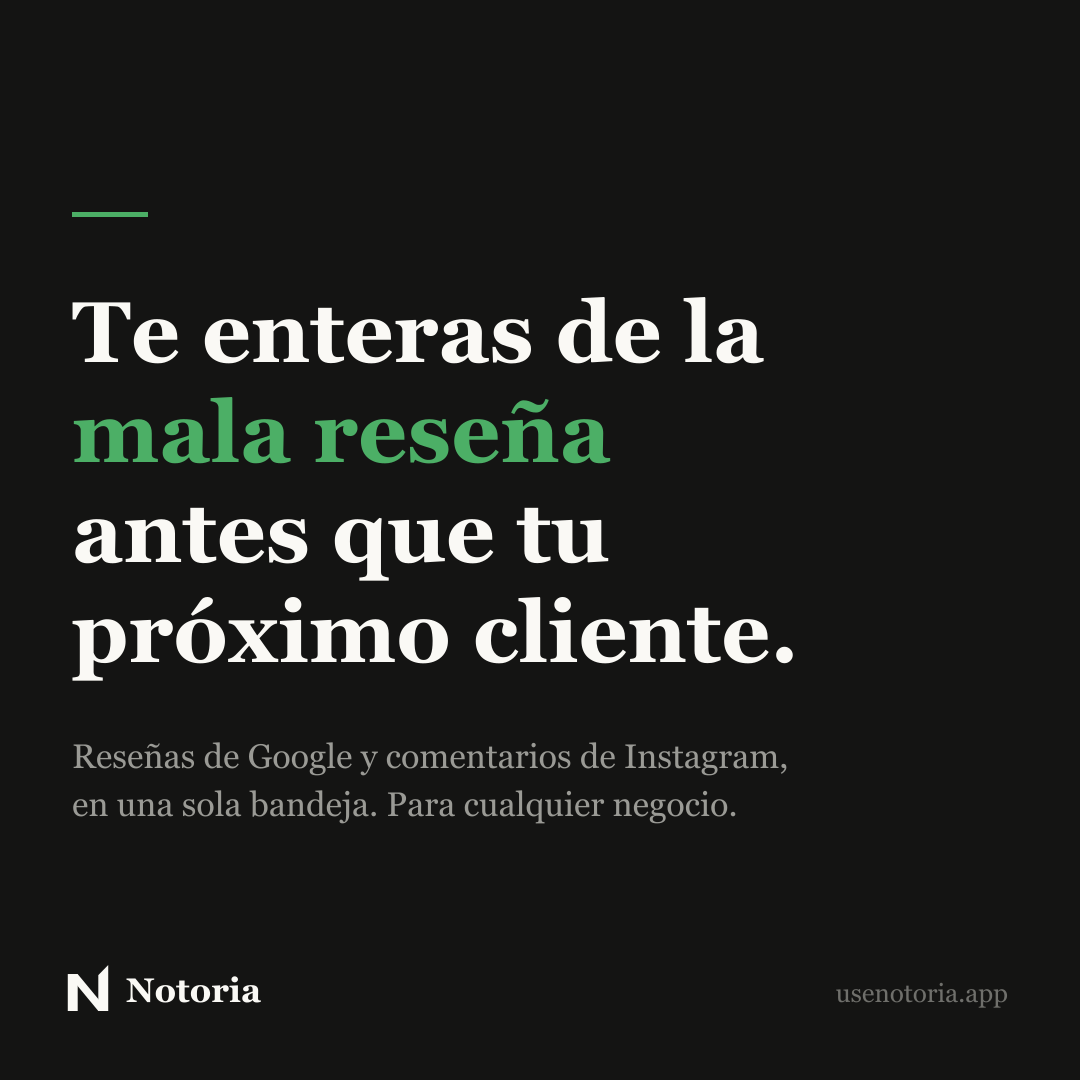
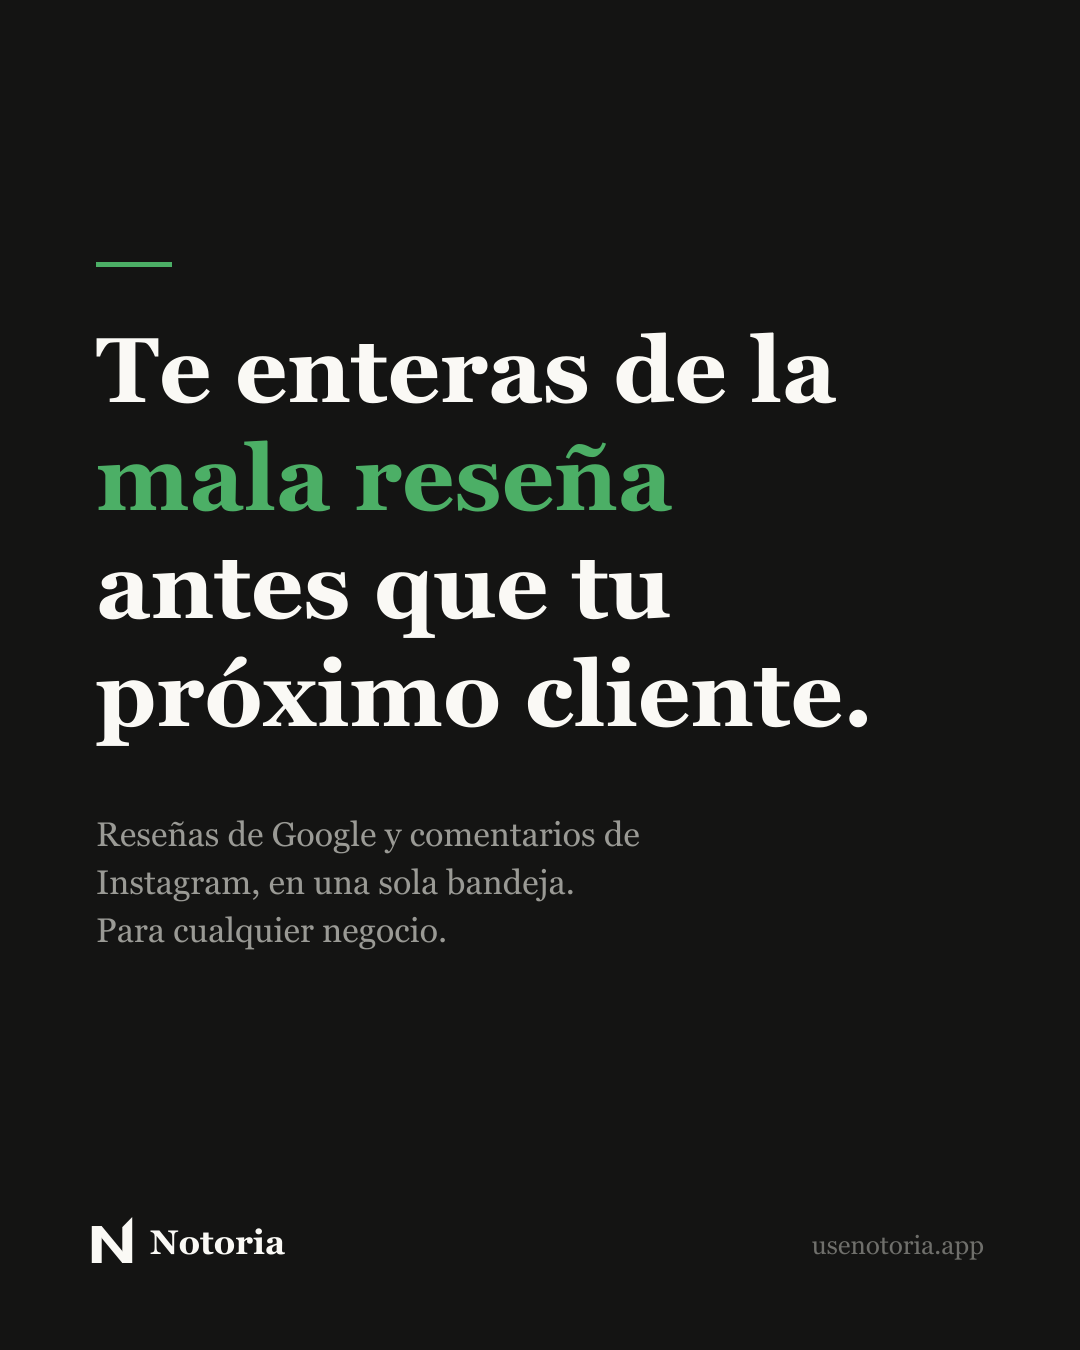
Pasar las piezas de redes a 4:5 vertical, que Instagram no recorta
Subida la primera al perfil se vio el problema: la cuadricula ya no muestra
las miniaturas cuadradas, las encaja en una celda vertical y descarta los
lados. El titular empieza en el margen izquierdo, asi que se leia "e enteras
de la" en vez de "Te enteras de la".

Mover el texto hacia dentro habria tapado el sintoma dejando el diseño
descentrado. La causa es el formato: a 1080x1350 la celda coincide con la
pieza y no se pierde nada. De paso ocupa mas alto en el feed, que es por lo
que la propia plataforma prefiere ese formato.

El margen lateral queda mas adentro de lo que pediria el diseño, como
reserva por si vuelven a cambiar el recorte. Las tres verificadas a 0.800
exacto.

diff --git a/marca/generar-social.js b/marca/generar-social.js
@@ -1,18 +1,28 @@
-// Piezas para redes sociales de Notoria, 1080x1080 PNG (formato cuadrado de
-// Instagram). Se usan para publicar y como material de la publicación que sale
-// en el screencast del App Review de Meta.
+// Piezas para redes sociales de Notoria, 1080x1350 PNG. Se usan para publicar y
+// como material de la publicación que sale en el screencast del App Review.
 //
 //   node marca/generar-social.js
 //
-// Se compone en SVG y se rasteriza con `sharp`. La nota de `generar-logos.py`
-// decía que no había rasterizador SVG en la máquina y por eso aquel se dibujó
-// con Pillow a 4x; `sharp` ya está instalado con el frontend, así que aquí sí se
-// puede usar SVG y tener tipografía de verdad en vez de polígonos.
+// ⚠ EL FORMATO ES 4:5 VERTICAL, NO CUADRADO, y no es una preferencia estética.
+// La primera versión salió a 1080x1080 y en la cuadrícula del perfil Instagram
+// la recortó por los lados: el titular empezaba en el margen izquierdo y se leía
+// "e enteras de la" en vez de "Te enteras de la". Instagram ya no muestra las
+// miniaturas cuadradas, las encaja en una celda vertical y descarta los lados.
+// Con 4:5 la celda coincide con la pieza y no se pierde nada. Además ocupa más
+// alto en el feed, que es el motivo por el que la propia plataforma lo prefiere.
+//
+// El margen lateral (MARGEN) está más adentro de lo que pediría el diseño por lo
+// mismo: deja aire por si algún día vuelven a cambiar el recorte.
+//
+// Se compone en SVG y se rasteriza con `sharp`. La cabecera de
+// `generar-logos.py` decía que no había rasterizador SVG en la máquina y por eso
+// aquel dibuja polígonos con Pillow a 4x; `sharp` viene con el frontend, así que
+// aquí sí hay tipografía de verdad.
 //
 // ⚠ La N NO se redibuja a ojo: son las mismas coordenadas normalizadas de
 // `generar-logos.py`. Si esa geometría cambia, cambiarla en los dos sitios o la
-// familia se desalinea. El bisel invertido del asta derecha es toda la
-// identidad de la marca — ver la cabecera de aquel script.
+// familia se desalinea. El bisel invertido del asta derecha es toda la identidad
+// de la marca — ver la cabecera de aquel script.
 
 const path = require('path');
 const fs = require('fs');
@@ -23,8 +33,13 @@ const VERDE_CLARO = '#4CAF66';
 const OSCURO = '#141413';
 const CREMA = '#FAF9F5';
 
-const LADO = 1080;
+const ANCHO = 1080;
+const ALTO = 1350;
+const MARGEN = 96;
+const ANCHO_UTIL = ANCHO - MARGEN * 2;
 const SALIDA = __dirname;
+
+const SERIF = "Georgia, 'Times New Roman', serif";
 
 // ── La N, igual que en generar-logos.py ───────────────────
 const PROPORCION = 0.879;
@@ -45,14 +60,13 @@ const eneN = (cx, cy, alto, color) => {
   ].join('');
 };
 
-// Pie común: marca + dominio. Se repite igual en todas las piezas para que la
-// serie se lea como una familia y no como tres diseños sueltos.
+// Pie común: marca + dominio. Idéntico en las tres para que la serie se lea como
+// una familia y no como tres diseños sueltos.
+const PIE_Y = ALTO - 96;
 const pie = (tinta, sutil) => `
-  ${eneN(88, LADO - 92, 46, tinta)}
-  <text x="126" y="${LADO - 78}" font-family="Georgia, 'Times New Roman', serif"
-        font-size="34" font-weight="bold" fill="${tinta}">Notoria</text>
-  <text x="${LADO - 72}" y="${LADO - 78}" text-anchor="end"
-        font-family="Georgia, 'Times New Roman', serif" font-size="26" fill="${sutil}">usenotoria.app</text>`;
+  ${eneN(MARGEN + 16, PIE_Y - 14, 46, tinta)}
+  <text x="${MARGEN + 54}" y="${PIE_Y}" font-family="${SERIF}" font-size="34" font-weight="bold" fill="${tinta}">Notoria</text>
+  <text x="${ANCHO - MARGEN}" y="${PIE_Y}" text-anchor="end" font-family="${SERIF}" font-size="26" fill="${sutil}">usenotoria.app</text>`;
 
 const estrellas = (x, y, llenas, tam, colorLleno, colorVacio) => {
   const punta = (cx, cy, r, color) => {
@@ -68,21 +82,26 @@ const estrellas = (x, y, llenas, tam, colorLleno, colorVacio) => {
     punta(x + i * tam * 2.35, y, tam, i < llenas ? colorLleno : colorVacio)).join('');
 };
 
+const lienzo = (fondo, contenido) => `
+<svg xmlns="http://www.w3.org/2000/svg" width="${ANCHO}" height="${ALTO}" viewBox="0 0 ${ANCHO} ${ALTO}">
+  <rect width="${ANCHO}" height="${ALTO}" fill="${fondo}"/>
+  ${contenido}
+</svg>`;
+
 // ── Pieza 1: la promesa, tipográfica ──────────────────────
 // Sin adornos: el mensaje ES el diseño. La palabra que carga el sentido va en
 // verde para que se lea sola si alguien pasa rápido por el feed.
-const piezaPromesa = `
-<svg xmlns="http://www.w3.org/2000/svg" width="${LADO}" height="${LADO}" viewBox="0 0 ${LADO} ${LADO}">
-  <rect width="${LADO}" height="${LADO}" fill="${OSCURO}"/>
-  <rect x="72" y="212" width="76" height="5" fill="${VERDE_CLARO}"/>
-  <text x="72" y="362" font-family="Georgia, 'Times New Roman', serif" font-size="86" font-weight="bold" fill="${CREMA}">Te enteras de la</text>
-  <text x="72" y="462" font-family="Georgia, 'Times New Roman', serif" font-size="86" font-weight="bold" fill="${VERDE_CLARO}">mala reseña</text>
-  <text x="72" y="562" font-family="Georgia, 'Times New Roman', serif" font-size="86" font-weight="bold" fill="${CREMA}">antes que tu</text>
-  <text x="72" y="662" font-family="Georgia, 'Times New Roman', serif" font-size="86" font-weight="bold" fill="${CREMA}">próximo cliente.</text>
-  <text x="72" y="768" font-family="Georgia, 'Times New Roman', serif" font-size="34" fill="#9a9a95">Reseñas de Google y comentarios de Instagram,</text>
-  <text x="72" y="816" font-family="Georgia, 'Times New Roman', serif" font-size="34" fill="#9a9a95">en una sola bandeja. Para cualquier negocio.</text>
+const piezaPromesa = lienzo(OSCURO, `
+  <rect x="${MARGEN}" y="262" width="76" height="5" fill="${VERDE_CLARO}"/>
+  <text x="${MARGEN}" y="402" font-family="${SERIF}" font-size="92" font-weight="bold" fill="${CREMA}">Te enteras de la</text>
+  <text x="${MARGEN}" y="510" font-family="${SERIF}" font-size="92" font-weight="bold" fill="${VERDE_CLARO}">mala reseña</text>
+  <text x="${MARGEN}" y="618" font-family="${SERIF}" font-size="92" font-weight="bold" fill="${CREMA}">antes que tu</text>
+  <text x="${MARGEN}" y="726" font-family="${SERIF}" font-size="92" font-weight="bold" fill="${CREMA}">próximo cliente.</text>
+  <text x="${MARGEN}" y="846" font-family="${SERIF}" font-size="34" fill="#9a9a95">Reseñas de Google y comentarios de</text>
+  <text x="${MARGEN}" y="894" font-family="${SERIF}" font-size="34" fill="#9a9a95">Instagram, en una sola bandeja.</text>
+  <text x="${MARGEN}" y="942" font-family="${SERIF}" font-size="34" fill="#9a9a95">Para cualquier negocio.</text>
   ${pie(CREMA, '#6f6f6b')}
-</svg>`;
+`);
 
 // ── Pieza 2: la reseña que duele ──────────────────────────
 // Enseña el problema en vez de contarlo. La reseña es genérica por dos motivos:
@@ -90,26 +109,25 @@ const piezaPromesa = `
 // sería difamarlo— y la queja no es de un rubro concreto. Decía "la comida llegó
 // fría", que solo servía para un restaurante y contradecía el "para cualquier
 // negocio" del resto de las piezas.
-const piezaResena = `
-<svg xmlns="http://www.w3.org/2000/svg" width="${LADO}" height="${LADO}" viewBox="0 0 ${LADO} ${LADO}">
-  <rect width="${LADO}" height="${LADO}" fill="${CREMA}"/>
-  <text x="72" y="168" font-family="Georgia, 'Times New Roman', serif" font-size="30" fill="#8a8a84">HOY, 9:41 P.M.</text>
+const piezaResena = lienzo(CREMA, `
+  <text x="${MARGEN}" y="250" font-family="${SERIF}" font-size="30" fill="#8a8a84">HOY, 9:41 P.M.</text>
 
-  <rect x="72" y="213" width="936" height="300" rx="22" fill="#ffffff" stroke="#e6e3da" stroke-width="2"/>
-  <rect x="72" y="213" width="7" height="300" rx="3" fill="#d93a3a"/>
-  ${estrellas(130, 286, 1, 21, '#d93a3a', '#ded9cf')}
-  <text x="360" y="298" font-family="Georgia, 'Times New Roman', serif" font-size="28" fill="#8a8a84">hace 3 minutos</text>
-  <text x="128" y="373" font-family="Georgia, 'Times New Roman', serif" font-size="44" fill="#141413">“Esperamos 50 minutos y nadie nos</text>
-  <text x="128" y="433" font-family="Georgia, 'Times New Roman', serif" font-size="44" fill="#141413">atendió. No volvemos.”</text>
+  <rect x="${MARGEN}" y="295" width="${ANCHO_UTIL}" height="310" rx="22" fill="#ffffff" stroke="#e6e3da" stroke-width="2"/>
+  <rect x="${MARGEN}" y="295" width="7" height="310" rx="3" fill="#d93a3a"/>
+  ${estrellas(MARGEN + 58, 373, 1, 21, '#d93a3a', '#ded9cf')}
+  <text x="${MARGEN + 288}" y="385" font-family="${SERIF}" font-size="28" fill="#8a8a84">hace 3 minutos</text>
+  <text x="${MARGEN + 56}" y="463" font-family="${SERIF}" font-size="44" fill="${OSCURO}">“Esperamos 50 minutos y</text>
+  <text x="${MARGEN + 56}" y="523" font-family="${SERIF}" font-size="44" fill="${OSCURO}">nadie nos atendió.”</text>
 
-  <rect x="72" y="558" width="936" height="118" rx="22" fill="${VERDE}"/>
-  <text x="118" y="616" font-family="Georgia, 'Times New Roman', serif" font-size="36" font-weight="bold" fill="#ffffff">Notoria te avisa al instante</text>
-  <text x="118" y="656" font-family="Georgia, 'Times New Roman', serif" font-size="28" fill="#cfe6d5">por correo o Telegram, y respondes desde el panel.</text>
+  <rect x="${MARGEN}" y="660" width="${ANCHO_UTIL}" height="126" rx="22" fill="${VERDE}"/>
+  <text x="${MARGEN + 46}" y="722" font-family="${SERIF}" font-size="36" font-weight="bold" fill="#ffffff">Notoria te avisa al instante</text>
+  <text x="${MARGEN + 46}" y="762" font-family="${SERIF}" font-size="27" fill="#cfe6d5">por correo o Telegram, y respondes desde el panel.</text>
 
-  <text x="72" y="812" font-family="Georgia, 'Times New Roman', serif" font-size="40" fill="#141413">Una reseña sin responder la leen</text>
-  <text x="72" y="864" font-family="Georgia, 'Times New Roman', serif" font-size="40" fill="#141413">todos los que vienen después.</text>
+  <text x="${MARGEN}" y="920" font-family="${SERIF}" font-size="42" fill="${OSCURO}">Una reseña sin responder</text>
+  <text x="${MARGEN}" y="976" font-family="${SERIF}" font-size="42" fill="${OSCURO}">la leen todos los que</text>
+  <text x="${MARGEN}" y="1032" font-family="${SERIF}" font-size="42" fill="${OSCURO}">vienen después.</text>
   ${pie(OSCURO, '#8a8a84')}
-</svg>`;
+`);
 
 // ── Pieza 3: lo que vigila ────────────────────────────────
 // Lista corta de capacidades reales. Nada de cifras inventadas: todo lo que dice
@@ -120,20 +138,19 @@ const filas = [
   'Reseñas falsas y ataques de bots',
   'Caídas de tu calificación',
 ];
-const piezaVigila = `
-<svg xmlns="http://www.w3.org/2000/svg" width="${LADO}" height="${LADO}" viewBox="0 0 ${LADO} ${LADO}">
-  <rect width="${LADO}" height="${LADO}" fill="${OSCURO}"/>
-  <text x="72" y="190" font-family="Georgia, 'Times New Roman', serif" font-size="74" font-weight="bold" fill="${CREMA}">Mientras atiendes,</text>
-  <text x="72" y="278" font-family="Georgia, 'Times New Roman', serif" font-size="74" font-weight="bold" fill="${VERDE_CLARO}">nosotros vigilamos.</text>
+const piezaVigila = lienzo(OSCURO, `
+  <text x="${MARGEN}" y="300" font-family="${SERIF}" font-size="78" font-weight="bold" fill="${CREMA}">Mientras</text>
+  <text x="${MARGEN}" y="392" font-family="${SERIF}" font-size="78" font-weight="bold" fill="${CREMA}">atiendes,</text>
+  <text x="${MARGEN}" y="484" font-family="${SERIF}" font-size="78" font-weight="bold" fill="${VERDE_CLARO}">nosotros vigilamos.</text>
   ${filas.map((f, i) => {
-    const y = 400 + i * 108;
-    return `<rect x="72" y="${y - 46}" width="936" height="84" rx="18" fill="#1e1e1c" stroke="#2c2c29" stroke-width="2"/>
-      <circle cx="126" cy="${y - 4}" r="13" fill="${VERDE_CLARO}"/>
-      <text x="172" y="${y + 8}" font-family="Georgia, 'Times New Roman', serif" font-size="38" fill="${CREMA}">${f}</text>`;
+    const y = 620 + i * 112;
+    return `<rect x="${MARGEN}" y="${y - 48}" width="${ANCHO_UTIL}" height="86" rx="18" fill="#1e1e1c" stroke="#2c2c29" stroke-width="2"/>
+      <circle cx="${MARGEN + 50}" cy="${y - 5}" r="13" fill="${VERDE_CLARO}"/>
+      <text x="${MARGEN + 92}" y="${y + 8}" font-family="${SERIF}" font-size="37" fill="${CREMA}">${f}</text>`;
   }).join('')}
-  <text x="72" y="880" font-family="Georgia, 'Times New Roman', serif" font-size="32" fill="#9a9a95">Para cualquier negocio en el Perú · Plan gratuito disponible</text>
+  <text x="${MARGEN}" y="1130" font-family="${SERIF}" font-size="31" fill="#9a9a95">Cualquier negocio en el Perú · Plan gratuito</text>
   ${pie(CREMA, '#6f6f6b')}
-</svg>`;
+`);
 
 const piezas = [
   ['notoria-post-promesa.png', piezaPromesa],
@@ -147,5 +164,5 @@ const piezas = [
     await sharp(Buffer.from(svg)).png({ compressionLevel: 9 }).toFile(destino);
     console.log(`  ${nombre}  ${(fs.statSync(destino).size / 1024).toFixed(1)} KB`);
   }
-  console.log('\nListo. 1080x1080, formato cuadrado de Instagram.');
+  console.log(`\nListo. ${ANCHO}x${ALTO} (4:5), el vertical que Instagram no recorta.`);
 })();
